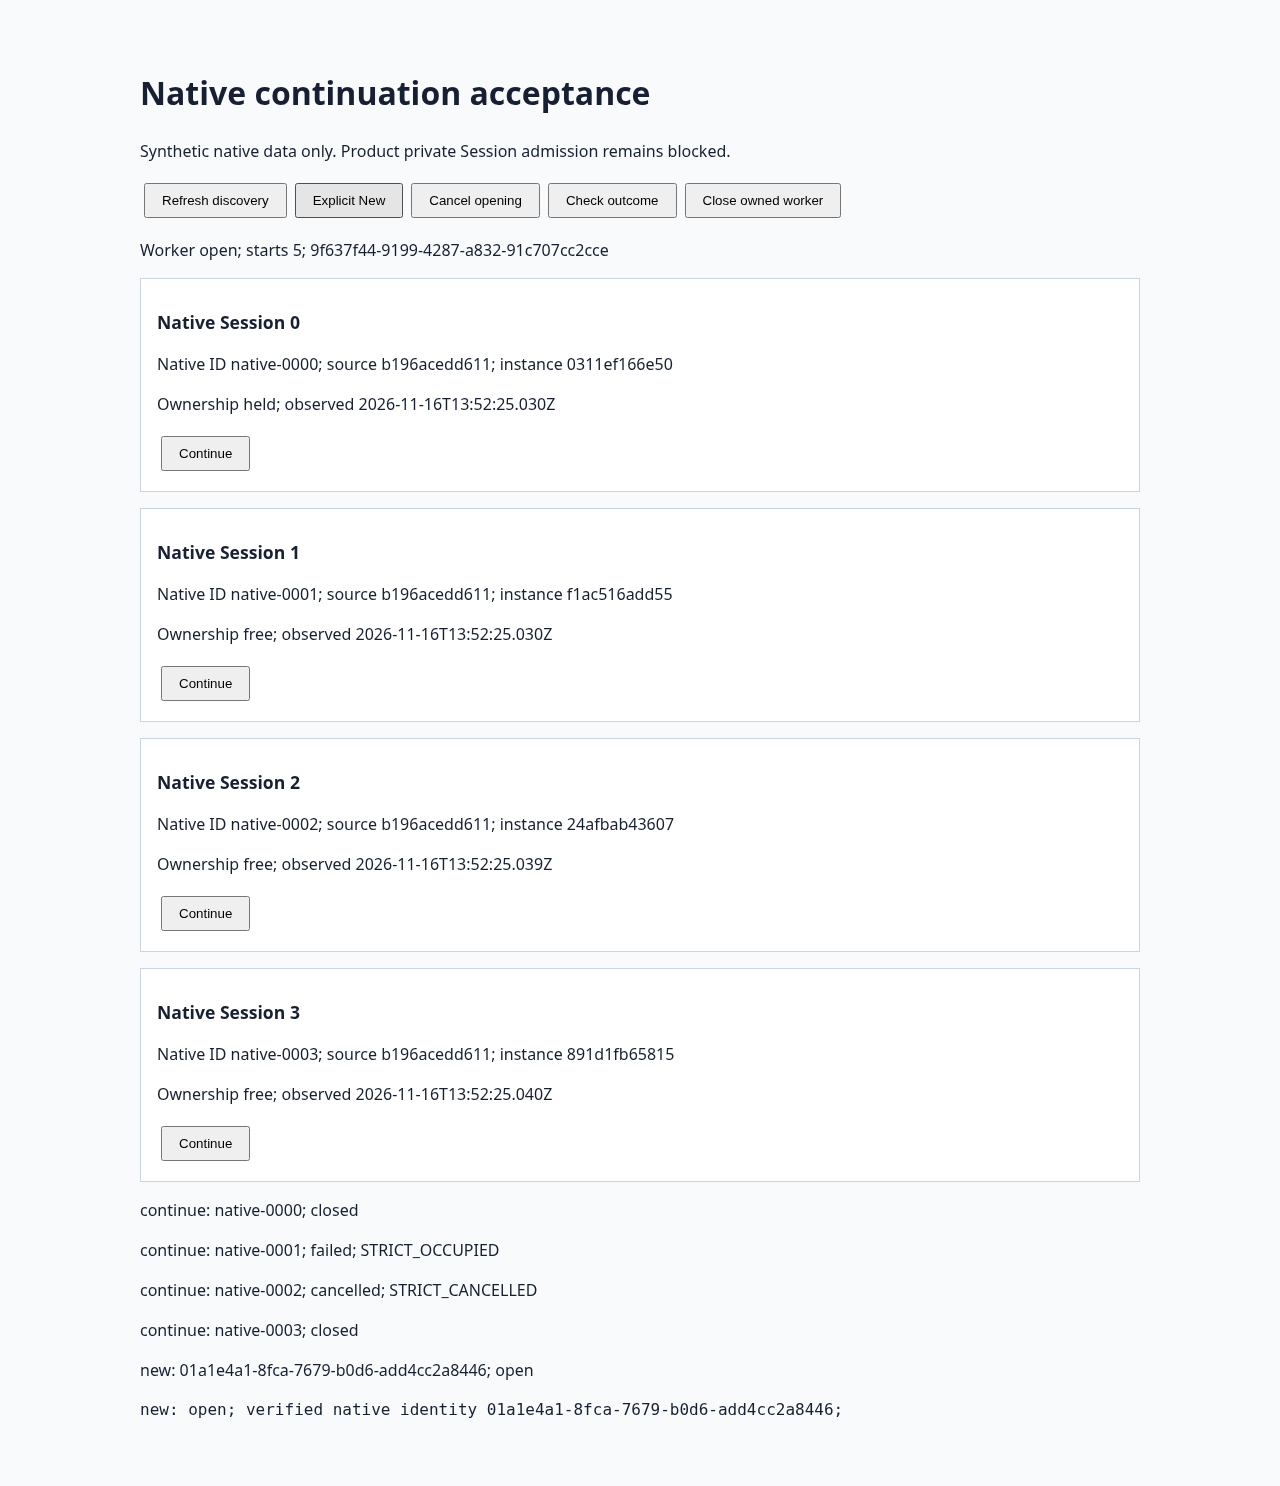
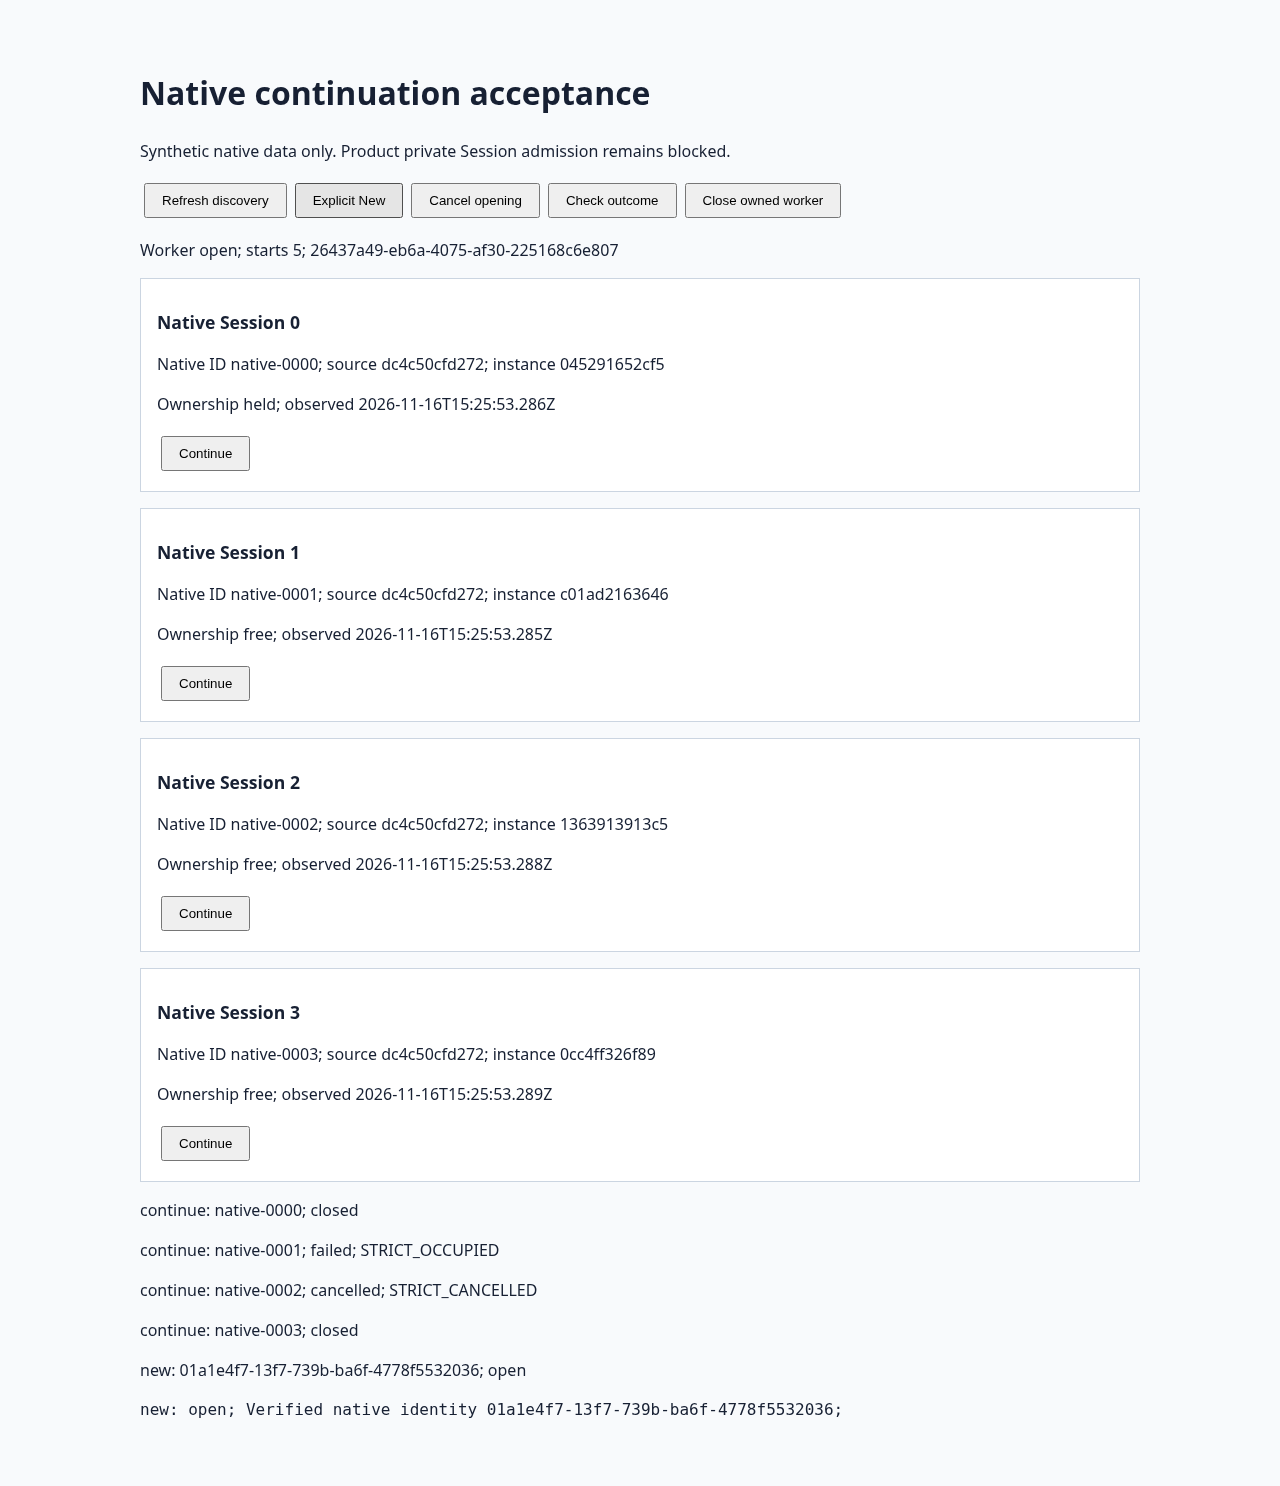
test(continuation): freeze strict candidate with native and browser evidence

diff --git a/packages/continuation/fixture.ts b/packages/continuation/fixture.ts
@@ -14,7 +14,7 @@ interface Options {
 }
 interface Active {
   id: ContinuationWorkerId; record: ContinuationRegistration; client: Promise<StrictTransport>;
-  selected?: CatalogDescriptor; retired: boolean; drained: boolean; started: boolean;
+  selected?: CatalogDescriptor; retired: boolean; drained: boolean; started: boolean; exited: boolean;
 }
 export class ContinuationFixture {
   readonly #choices = new Map<ContinuationSelectionId, CatalogDescriptor>();
@@ -97,8 +97,10 @@ export class ContinuationFixture {
     if (action.type === "continue" && !selected) throw new Error("STRICT_SELECTION_INVALID");
     const existing = selected ? this.#records.find(record => record.reference === selected.reference) : undefined;
     const active = this.#active;
-    if (active && !active.retired && active.selected?.reference === selected?.reference && existing?.attempt === "open") {
-      await this.#recheck(); return;
+    if (active && !active.drained && selected && active.selected?.reference === selected.reference && existing === active.record) {
+      // Repeated explicit Continue can observe the same pending/unknown worker; it cannot replace its truthful outcome or replay startup.
+      if (!active.retired) await this.#recheck();
+      return;
     }
     if (this.#records.length >= 32 && !existing) throw new Error("STRICT_REGISTRATION_LIMIT");
     const record: ContinuationRegistration = existing ?? { id: brandString<ContinuationRegistrationId>(crypto.randomUUID()),
@@ -119,7 +121,7 @@ export class ContinuationFixture {
     }
     if (this.#cancelRequested) { record.attempt = "cancelled"; record.code = "STRICT_CANCELLED"; await this.#save(); return; }
     const current: Active = { id: brandString<ContinuationWorkerId>(crypto.randomUUID()), record,
-      client: this.options.launch(selected), retired: false, drained: false, started: false, ...(selected ? { selected } : {}) };
+      client: this.options.launch(selected), retired: false, drained: false, started: false, exited: false, ...(selected ? { selected } : {}) };
     this.#active = current; this.#state = undefined; this.#starts++;
     try {
       const client = await current.client;
@@ -128,6 +130,7 @@ export class ContinuationFixture {
         await client.close(); current.drained = true; await this.#save(); return;
       }
       void client.exited.then(() => {
+        current.exited = true;
         if (!current.retired && current.record.attempt !== "cancelled") {
           current.record.attempt = "outcome_unknown"; current.record.code = "STRICT_WORKER_EXITED";
           if (this.#active === current && this.#state) this.#state = { ...this.#state, phase: "outcome_unknown", code: "STRICT_WORKER_EXITED" };
@@ -167,7 +170,7 @@ export class ContinuationFixture {
   }
   async #recheck(): Promise<void> {
     const active = this.#active;
-    if (!active || active.retired || ["cancelled", "failed"].includes(active.record.attempt)) return;
+    if (!active || active.retired || active.exited || ["cancelled", "failed"].includes(active.record.attempt)) return;
     try { this.#accept(active, await (await active.client).startup.state()); }
     catch { active.record.attempt = "outcome_unknown"; active.record.code = "STRICT_OUTCOME_UNAVAILABLE";
       if (this.#state) this.#state = { ...this.#state, phase: "outcome_unknown", code: "STRICT_OUTCOME_UNAVAILABLE" };

diff --git a/tests/continuation/native-tui.test.ts b/tests/continuation/native-tui.test.ts
@@ -52,3 +52,17 @@ test("a genuine native TUI retains ownership when strict public continuation is 
     } finally {owner.kill();await owner.exited;}
   } finally {await rm(home,{recursive:true,force:true});}
 },30_000);
+
+
+test("a guarded flattened native export passes real baseline TUI rollback without changing the original carrier",async()=>{
+ const home=await mkdtemp(join(tmpdir(),"strict-rollback-"));
+ try{const root=await nativeFixture(home),file=join(root,"bucket/native-0000.jsonl"),cwd=join(home,"project"),selected=await selectedDescriptor(home),worker=strictWorker(home,cwd,isolatedRuntimeArgs);
+  try{await negotiateStrict(worker);expect(await worker.request({type:"strict_start",intent:"continue",reference:selected.reference,expectedCwd:cwd})).toMatchObject({success:true});expect(await worker.request({type:"set_session_name",name:"Rollback native source"})).toMatchObject({success:true});await worker.close();}finally{worker.child.kill();await worker.child.exited;}
+  const before=await filesystemManifest(root),archive=join(home,"native.tar"),source=resolve("vendor/omp/packages/coding-agent/src/session/session-transfer.ts");
+  const pack=Bun.spawn([process.execPath,"--no-env-file","--preload",resolve("compatibility/omp/fixtures/no-provider.ts"),"-e",`import {packSession} from ${JSON.stringify(source)};await packSession(${JSON.stringify(file)},${JSON.stringify(archive)});`],{cwd,env:{HOME:home,TMPDIR:home,PATH:"/usr/bin:/bin",BUN_RUNTIME_TRANSPILER_CACHE_PATH:"0"},stdout:"pipe",stderr:"pipe"});const errors=await new Response(pack.stderr).text();if(await pack.exited)throw new Error(errors);
+  const extract=Bun.spawn(["tar","-xf",archive,"-C",home,"session.jsonl"],{stdout:"pipe",stderr:"pipe"});expect(await extract.exited).toBe(0);
+  const flattened=join(home,"session.jsonl"),probe=Bun.spawn([Bun.which("python3")??"/usr/bin/python3",resolve("tests/continuation/tui-probe.py"),home,flattened,"rollback",process.execPath],{cwd:resolve("."),env:{PATH:"/usr/bin:/bin"},stdout:"pipe",stderr:"pipe"});
+  const [output,failures,code]=await Promise.all([new Response(probe.stdout).text(),new Response(probe.stderr).text(),probe.exited]);if(code)throw new Error(failures);expect(JSON.parse(output)).toMatchObject({historyRendered:true,explicitRename:true,exit:0});
+  const flat=await Bun.file(flattened).text();expect(flat).toContain('"id":"native-0000"');expect(flat).toContain('"id":"entry-0"');expect(flat).toContain("Matched TUI continued title");expect(flat).not.toContain('"type":"ompgen1"');expect(await filesystemManifest(root)).toEqual(before);
+ }finally{await rm(home,{recursive:true,force:true});}
+},30_000);

diff --git a/tests/continuation/host-state.test.ts b/tests/continuation/host-state.test.ts
@@ -24,7 +24,8 @@ test("the actual Host adapter preserves terminal knowledge, marks lost workers u
    await restored.act({type:"discover"});expect(starts).toBe(1);
    if(!owned)throw new Error("NO_OWNED_WORKER");process.kill(owned.processId,"SIGKILL");await owned.exited;await new Promise(resolve=>setTimeout(resolve,20));
    expect(fixture.snapshot()).toMatchObject({state:{phase:"outcome_unknown",code:"STRICT_WORKER_EXITED"},registrations:[{attempt:"outcome_unknown"}],worker:{status:"outcome_unknown",starts:1}});
-   expect((await fixture.act({type:"recheck"})).state?.phase).toBe("outcome_unknown");expect(starts).toBe(1);
+   expect((await fixture.act({type:"recheck"})).state?.phase).toBe("outcome_unknown");
+   const retried=await fixture.act({type:"continue",selectionId:choice.selectionId});expect(retried.registrations[0]?.attempt).toBe("outcome_unknown");expect(retried.worker.starts).toBe(1);expect(starts).toBe(1);
   }finally{await fixture.close();await catalog.close();}
  }finally{await rm(home,{recursive:true,force:true});}
 },20_000);

diff --git a/tests/continuation/tui-probe.py b/tests/continuation/tui-probe.py
@@ -10,7 +10,7 @@ import pexpect
 root = pathlib.Path(__file__).resolve().parents[2]
 home = pathlib.Path(sys.argv[1]).resolve()
 file = pathlib.Path(sys.argv[2]).resolve()
-baseline = sys.argv[3] == "baseline"
+baseline = sys.argv[3] in ("baseline", "rollback")
 assert file.is_relative_to(home) and (home / "project").is_dir()
 bun = sys.argv[4]
 launcher = "/workspace/work/rpc-public-module-probe/tarball/package/dist/cli.js" if baseline else str(root / "vendor/omp-candidate/cli.js")
@@ -26,7 +26,7 @@ child = pexpect.spawn(bun, args, cwd=str(home / "project"), env=env, encoding="u
                       dimensions=(40, 160))
 observed = ""
 try:
-    if baseline:
+    if sys.argv[3] == "baseline":
         child.expect(pexpect.EOF)
         observed += child.before
         child.close()

diff --git a/tests/browser/continuation-browser.py b/tests/browser/continuation-browser.py
@@ -66,7 +66,7 @@ async def main():
         lost=await action('article[data-native-id="native-0003"] button')
         assert next(record for record in lost['registrations'] if record.get('nativeSessionId')=='native-0003')['attempt']=='outcome_unknown',lost
         lost_starts=lost['worker']['starts'];await asyncio.sleep(.5)
-        recovered=await action('#recheck')
+        recovered=await action('article[data-native-id="native-0003"] button')
         for _ in range(10):
             if recovered.get('state',{}).get('phase')=='open':break
             await asyncio.sleep(.2);recovered=await action('#recheck')

diff --git a/docs/evidence/ticket-32-strict-continuation.md b/docs/evidence/ticket-32-strict-continuation.md
@@ -1,0 +1,42 @@
+# Ticket 32 strict continuation candidate
+
+This is an isolated component review candidate. Product Session admission remains blocked pending the complete #41/#43/#44 gates. The protocol policy remains marked prototype pending independent review; this report does not approve the storage format for general deployment.
+
+The implementation uses the actual authored native CLI, wire/schema/client/server and native persistence, with a real Bun Host and typed DSH acceptance page. Continue preserves the selected native ID and physical carrier through real exclusive ownership and every storage critical section. Explicit New has a separate public intent and native identity. Host never parses or repairs native Session files.
+
+## Acceptance evidence
+
+| Ticket acceptance criterion | Actual boundary and evidence |
+| --- | --- |
+| Preserve source/instance through acquisition and first write | Native pinned root/parent/cwd/carrier fds, actual exclusive lock, bounded native-ID checks, guarded EOF/control writes and source-binding refresh; ownership/startup-order/fault suites include first-write and commit namespace swaps and in-place native-ID replacement. A lease probe is never accepted as ownership. |
+| Races, copies, replacement, missing, unknown owner | Two actual rpc-ui workers contend; missing physical selection cannot pick a same-ID sibling; hardlink alias is catalog partial; real AF_UNIX EMFILE is unknown. No fallback, forced takeover, backup guessing or foreign TUI termination. |
+| New versus Continue and public identity | Actual `strict_start`, `get_strict_state`, same-source generated validators/client and typed Remote show intent, binding, native ID and cwd; successful continuation preserves existing entries, explicit New has a fresh UUID. |
+| Success, conflict, cancellation and unknown result through typed page | Chromium → real DSH Remote/Connection → Bun → public strict rpc-ui. Browser cases cover identity/reload/repeated Continue, actual ordinary native owner, cancellation, dropped successful startup reply with read-only recovery, and explicit New. The Host retains an observed dead-worker/unknown outcome without replay. |
+| Native data and TUI still read and continue | Actual matched PTY reads, rename/continue, tree/navigation and logical render; actual baseline TUI refuses `ompgen1` unchanged; guarded flattened export opens/continues/renames in baseline TUI. Full/stream/header, FileStorage and >=8MiB paths share the resolver. Native New/fork/branch/copy handles genuine nested generation children with guarded complete fresh publication. |
+
+The native generation adapter preserves the carrier inode. Immutable native JSONL generations and bounded authenticated metadata are referenced by fd xattr head and appended commit controls. Seven-byte format detection prevents ordinary copies losing both controls from silently looking like stale legacy history. Catalog authenticates only bounded winning-prefix metadata; full loaders verify complete bodies. Committed missing/corrupt state is an error, incomplete markers retain the previous committed read cut and refuse writable continuation. Short format conversion is incompatible/indeterminate. Crash/short-write tests exercise actual owned syscalls, retaining prepared controls; no automatic repair/replay occurs.
+
+## Checks
+
+On the clean ordered 0001–0006 source recorded in `ticket-32-checkpoint.json`:
+
+- Fixed-base clean patch application, native compatibility build, generated build `--check`, focused strict native TypeScript and authored live native TypeScript: PASS.
+- `bun run check`: typecheck, 247 tests, 1,966 assertions, 57 files, 518.66 seconds, product Host build: PASS. This includes the actual 100MiB/10,000-session catalog reachability run; it is not an append-throughput claim.
+- After the final Host-only repeated-Continue/observed-exit fix: typecheck PASS; actual Host adapter regression 1 test / 9 assertions PASS; isolated Host bundle rebuilt. Native tuple unchanged. The first focused attempt timed out because two read-only queries were sent after an observed worker exit; the Host now fences that case. A restricted-network launch also returned EPERM before fixture setup; the authorized isolated process run passed.
+- Actual matched/baseline TUI matrix: 3 tests / 24 assertions PASS, including conditional flattened rollback. These tests are included in the full suite.
+- Final-tuple `strace` publication/reopen plus nested logical copy: 2 tests / 21 assertions PASS. The retained syscall report records actual fd xattrs, discriminator/commit pwrite64 and no-clobber fd-bound linkat, and zero INET calls.
+- Final Chromium result and screenshot: `ticket-32-browser.json` / `.png`; exact identities and artifact digests: `ticket-32-checkpoint.json`.
+
+The accepted 0006 live patch was mechanically rebased after owned 0005. All nonempty added/deleted payload lines are identical to its accepted version; import union/context and one blank line differ. `ticket-32-live-composition.json` records both digests. No unreviewed #44 transport changes were incorporated.
+
+## Limits and conditional compatibility
+
+Linux x64 on the tested filesystem only. Real fd xattrs, O_TMPFILE and fd-bound linkat are required; unsupported platform/filesystem fails closed. Windows/WSL are unverified. This is process-crash evidence, without fsync/power-loss or hostile same-UID integrity/availability claims.
+
+128MiB logical body, 256MiB carrier, 512MiB actual retained immutable files, 64 generations and 128 generation-directory entries are enforced before unsafe publication. Catalog has explicit additive bounded control/winning-prefix budgets. There is no unsafe generation GC. Generic generation maintenance delete/move/strip/compress/unpack replacement refuses or opportunistic GC skips; nested extended archive pack currently refuses. Parent-only guarded flatten export, normal continuation, title, New/fork/branch/copy are supported within bounds. A whole multi-file fork is not a durable protected-branch receipt; future branch work owns that transaction.
+
+0005 currently performs a complete validated logical read/hash for append size accounting. Broad large-session append/submission throughput has NOT passed here. #36 owns the additive protected append/control codec and validated accounting cache in 0007; #41 must rerun affected strict faults and scale on that composition. `logicalDelta:0` must never bypass physical/control/provenance budgets.
+
+Rollback requires successful guarded native flatten export, exclusive access and baseline reader proof on the export. Copying the physical carrier or reinstalling an old binary is not rollback. The original carrier stays unchanged during export. Native-only explicit investigation is required for incompatible/indeterminate prepared state; Host never repairs it.
+
+See `compatibility/STRICT-CONTINUATION.md`, `compatibility/CATALOG.md` and ADR `0013-strict-native-generation-publication.md` for format, budgets, ownership and rollback details. All fixtures use explicit synthetic profiles/home/cwd, allowlisted environments and pre-import provider guards; no real external inference or real user data.

diff --git a/compatibility/STRICT-CONTINUATION.md b/compatibility/STRICT-CONTINUATION.md
@@ -91,3 +91,9 @@ startup result. These seams are not production behavior; product launch environm
 or LD_PRELOAD. Provider pre-import guards and independently observed zero INET traces are distinct evidence.
 
 Nested extended artifact Sessions are logically flattened for explicit native copy/fork/branch-copy operations. Real child leases and complete shared-reader cuts are prepared before destination publication; occupied/unknown/corrupt/budget cases refuse. Fresh files use Linux O_TMPFILE plus fd-bound linkat with no-clobber names; there is no rename/unlink/truncate fallback. Copy is bounded to8192 entries/256 directories/32 levels/64 native children/128MiB total body. Generic archive pack of nested extended artifacts currently refuses; parent-only flattened pack is supported. Native branch without copyArtifacts retains its ordinary no-copy semantics.
+
+The final isolated matrix and exact same-source build identities are recorded in
+`docs/evidence/ticket-32-strict-continuation.md` and `ticket-32-checkpoint.json`; independent review and full
+#41/#43/#44 admission remain pending. Version 0005 still performs a complete validated logical read/hash per
+append. It makes no broad large-history append-throughput claim; #36 owns the additive protected-control codec
+and validated accounting optimization in 0007, with affected faults/scale to be rerun in #41.
